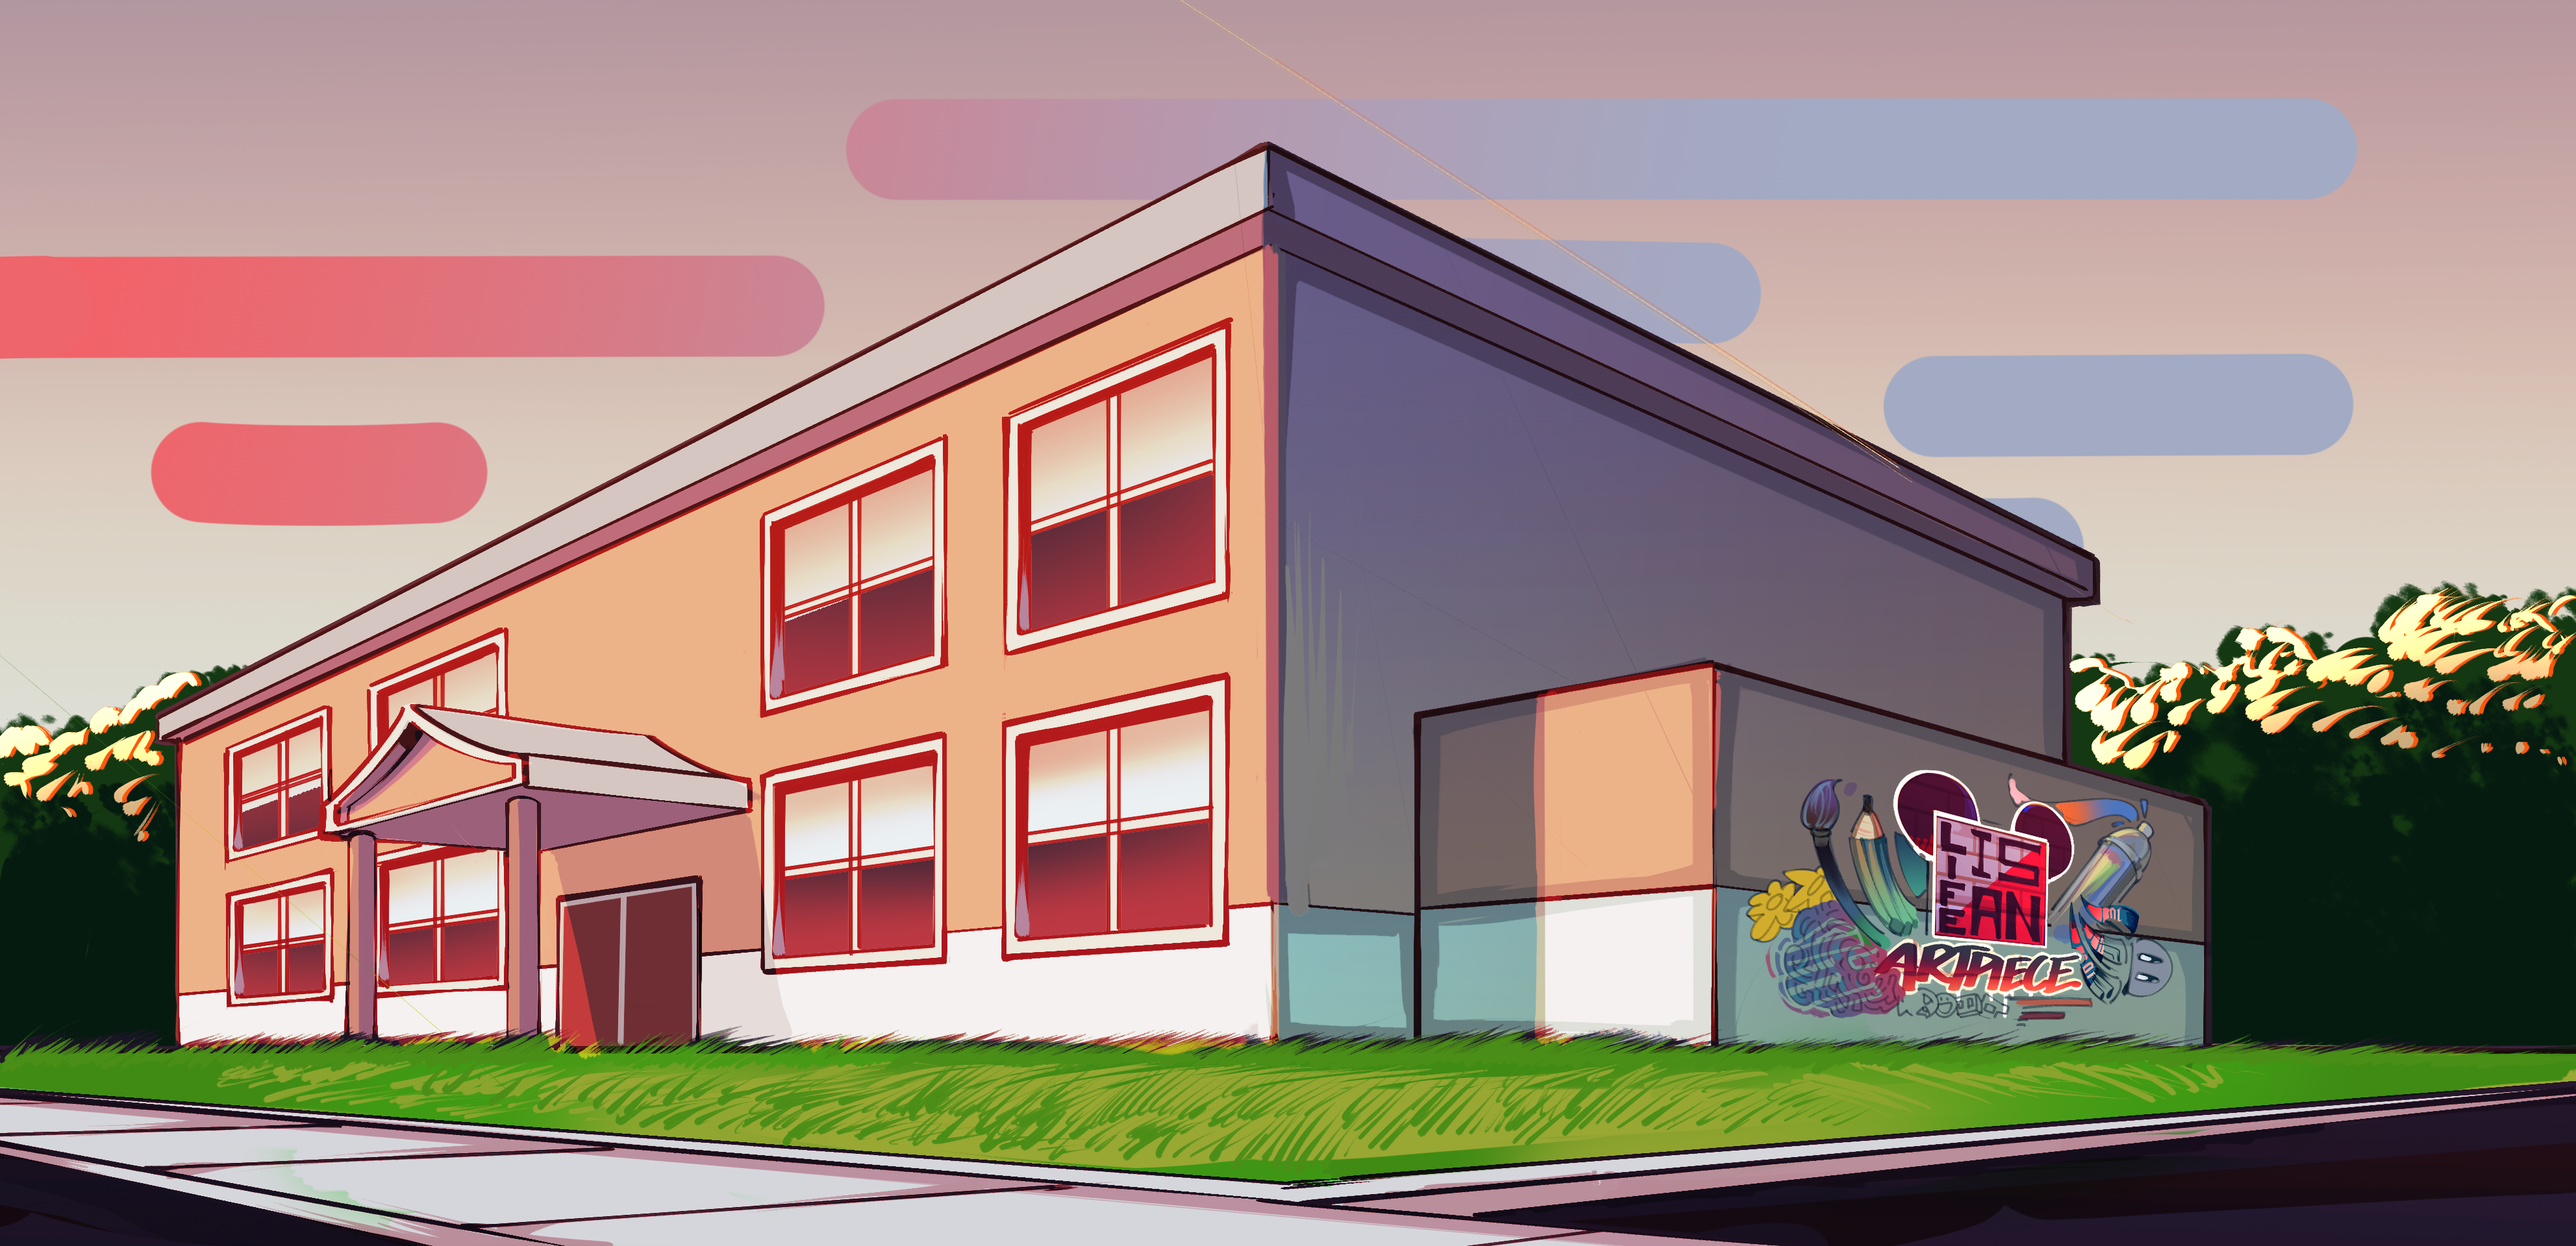
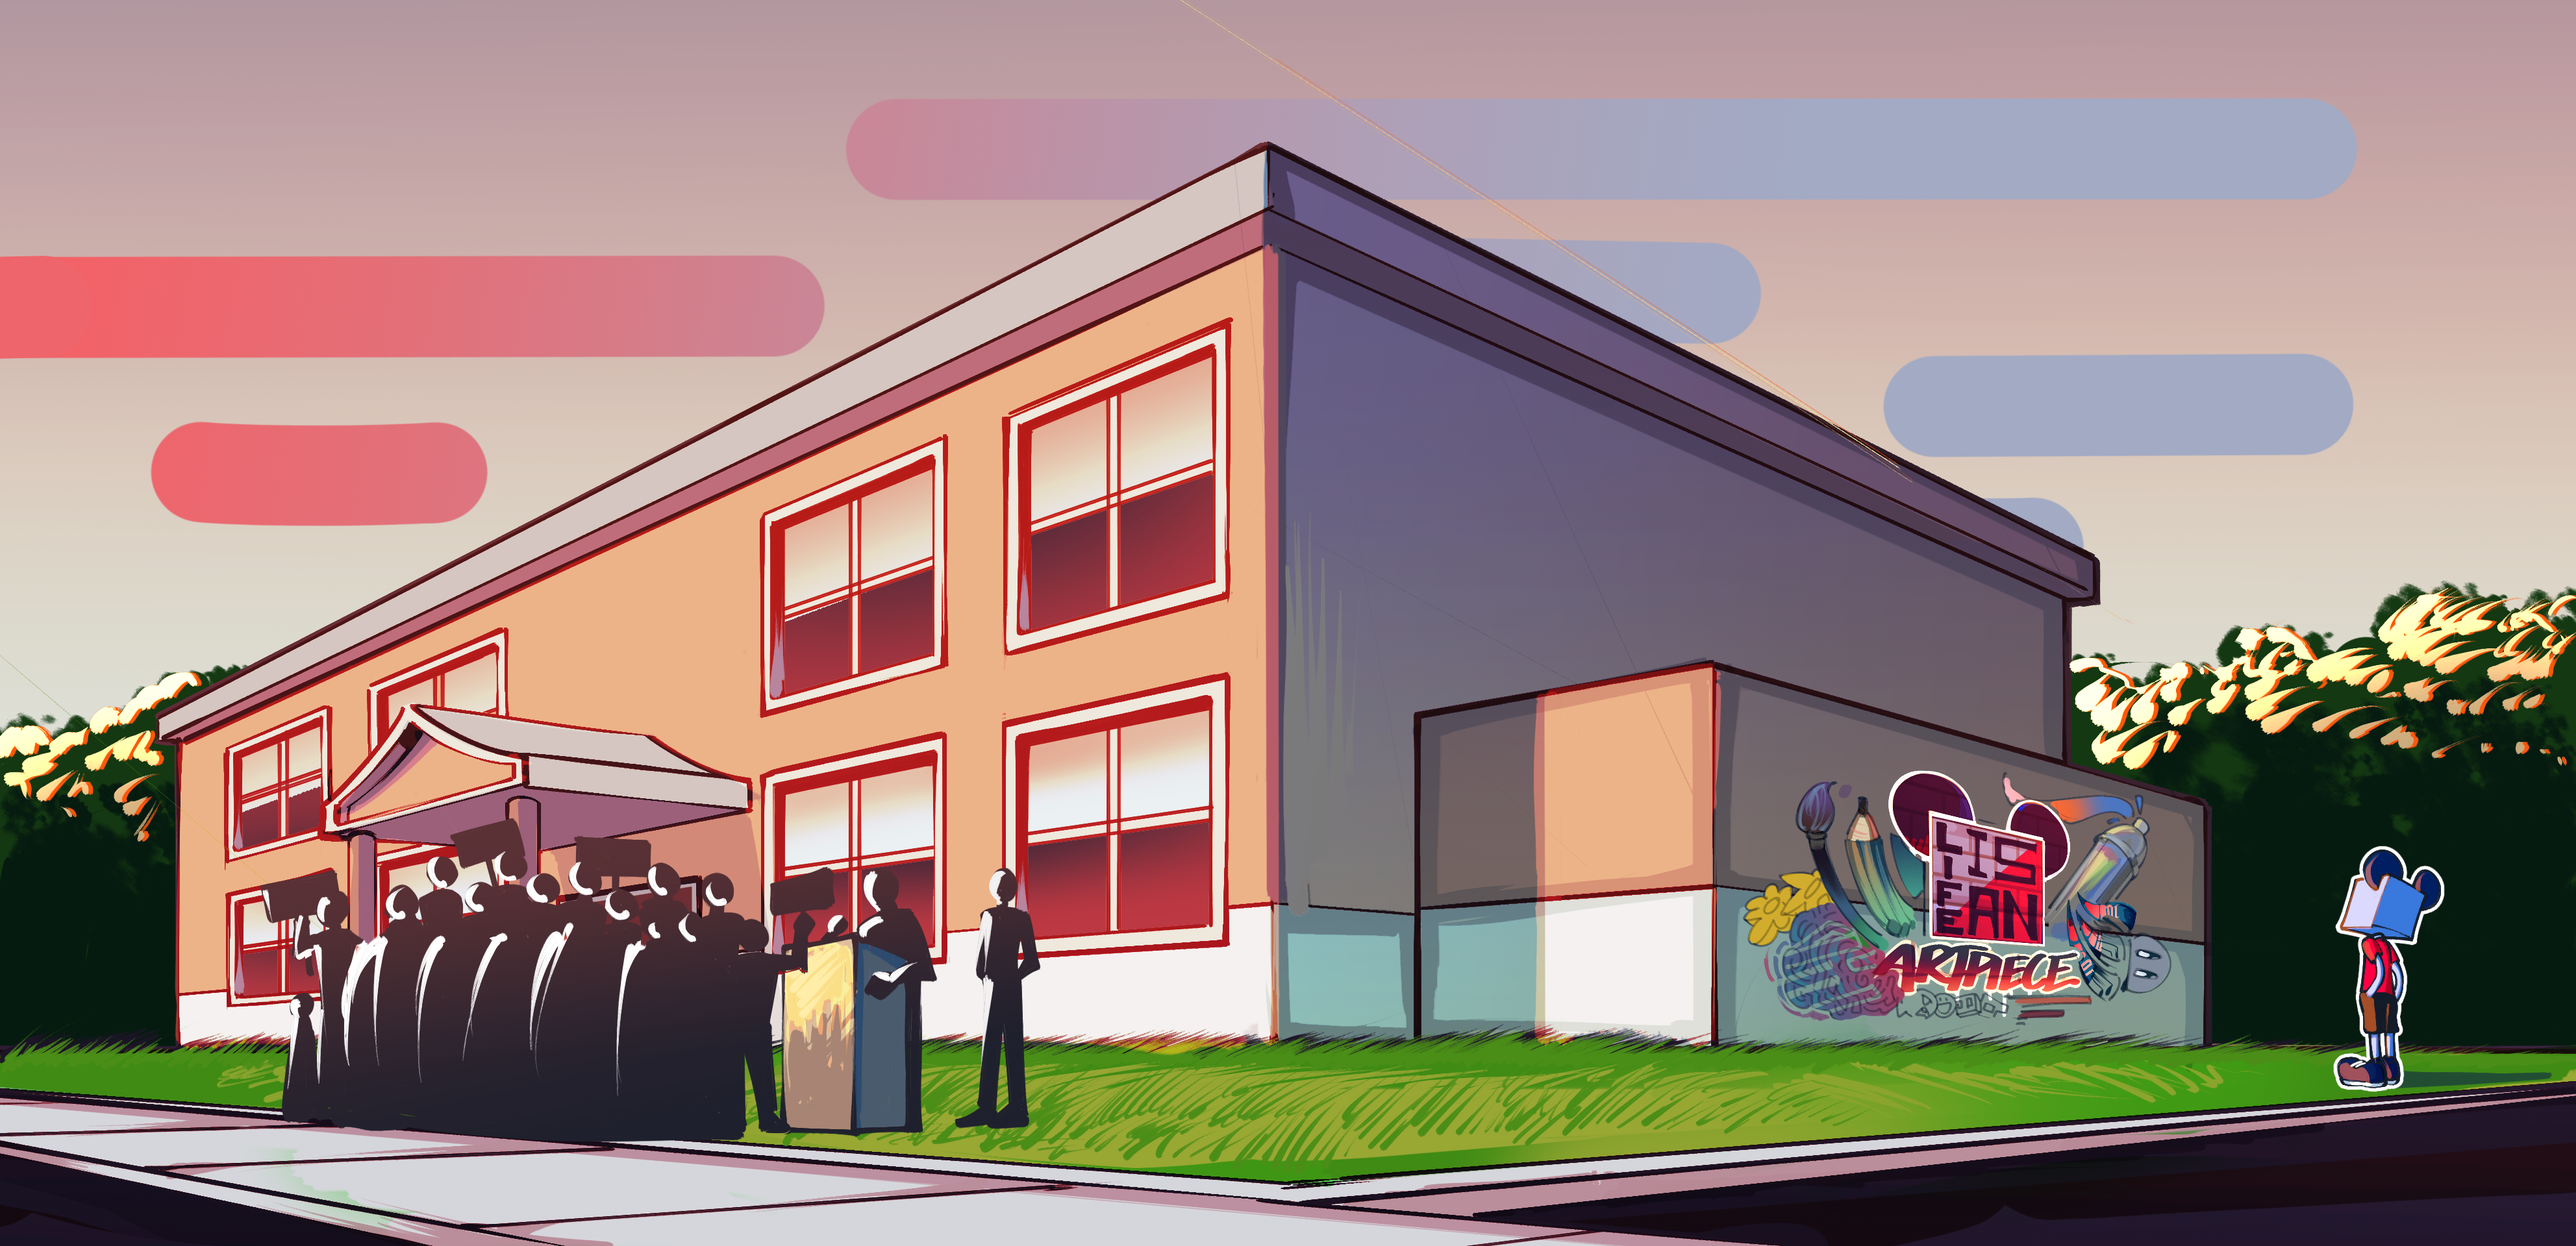
SYFT-733: fix scene 8

Changed region(s): [[0.093, 0.6562, 0.4031, 0.9375], [0.6821, 0.625, 0.8372, 0.8125], [0.8992, 0.6875, 0.9922, 0.875]]

diff --git a/components/Scenes/Scene-8/index.module.scss b/components/Scenes/Scene-8/index.module.scss
@@ -14,15 +14,12 @@
     top: 20%;
     right: 20%;
     z-index: 1;
-    max-width: 400px;
+    max-width: 600px;
     color: var(--white);
     font-size: 34px;
     line-height: 1.62;
-
-    &:last-of-type {
-      max-width: 610px;
-    }
   }
+
   .backdrop1 {
     position: absolute;
     @include fullSize;
@@ -31,64 +28,20 @@
     background-position: bottom right;
   }
 
-  .people,
-  .character {
-    position: absolute;
-
-    img {
-      height: 100%;
-    }
-  }
-
-  .people {
-    height: 280px;
-    left: -5%;
-    bottom: 8%;
-  }
-
-  .character {
-    height: 210px;
-    right: 0;
-    bottom: 12%;
-  }
-
-  &.sectionStepTwo {
-    .backdrop1 {
-      transform: scale(1.3);
-      transform-origin: right;
-      background-image: url('/assets/images/scene8/1-2.png');
-    }
-
-    .character {
-      bottom: 2%;
-    }
-
-    .people {
-      bottom: 5%;
-      left: -20%;
-      transform: scale(1.1);
-    }
-  }
-
-  &.sectionStepThree {
-    .backdrop1 {
-      transform: scale(1.3);
-      transform-origin: left;
-      background-position: bottom left;
-      background-image: url('/assets/images/scene8/1-2.png');
-    }
-
-    .character {
-      right: -15%;
-      bottom: 4%;
-    }
-
-    .people {
-      left: 15%;
-    }
-  }
-
-  &.sectionStepFour {
+  .backdrop2 {
+    transform: scale(1.3);
+    transform-origin: bottom right;
     background-image: url('/assets/images/scene8/1-2.png');
+  }
+
+  .backdrop3 {
+    transform: scale(1.3);
+    transform-origin: bottom left;
+    background-position: bottom left;
+    background-image: url('/assets/images/scene8/1-2.png');
+  }
+
+  .backdrop4 {
+    background-image: url('/assets/images/scene8/1-3.png');
   }
 }

diff --git a/components/Scenes/Scene-8/index.js b/components/Scenes/Scene-8/index.js
@@ -14,21 +14,15 @@ const Scene8 = () => {
   };
 
   return (
-    <div
-      className={cx(styles.section, {
-        [styles.sectionStepTwo]: step === 2,
-        [styles.sectionStepThree]: step === 3,
-        [styles.sectionStepFour]: step === 3,
-      })}
-      onClick={toggle}
-    >
-      <div className={styles.backdrop1} />
-      <div className={styles.people}>
-        <img src="/assets/images/scene8/2.png" />
-      </div>
-      <div className={styles.character}>
-        <img src="/assets/images/scene8/3.png" />
-      </div>
+    <div className={styles.section} onClick={toggle}>
+      <div className={styles.text}></div>
+      <div
+        className={cx(styles.backdrop1, {
+          [styles.backdrop2]: step === 2,
+          [styles.backdrop3]: step === 3,
+          [styles.backdrop4]: step === 4,
+        })}
+      />
     </div>
   );
 };
